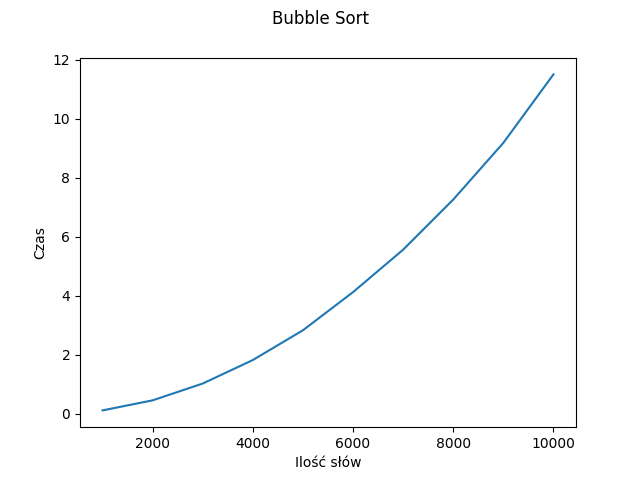
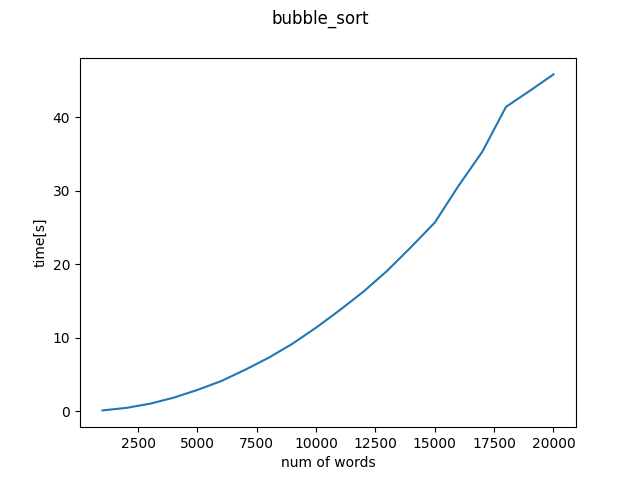
added more tests

diff --git a/main.py b/main.py
@@ -4,16 +4,15 @@ import time
 import gc
 
 text = []
-bubble_t = []
-merge_t = []
-quick_t = []
-selection_t = []
-NUM_OF_TESTS = 5
+# bubble_t = []
+# merge_t = []
+# quick_t = []
+# selection_t = []
+# NUM_OF_TESTS = 5
 
 with open('pan-tadeusz.txt', 'r', encoding='utf-8') as fp:
     for line in fp:
         text.extend(map(str.lower, line.split()))
-
 
 def measure_time(func, n, text):
     gc_old = gc.isenabled()
@@ -25,59 +24,56 @@ def measure_time(func, n, text):
         gc.enable()
     return stop-start
 
+def test_sorting(func, text, min, max, increments):
+    test_t = []
+    test_n = []
+    for i in range(min, max+1, increments):
+        test_t.append(measure_time(func, i, text))
+        test_n.append(i)
+    return test_n, test_t
+
 def main():
-    for i in range(1, NUM_OF_TESTS):
-        bubble_t.append(measure_time(sort.bubble_sort, i*2000, text))
-        merge_t.append(measure_time(sort.merge_sort, i*2000, text))
-        # quick_t.append(measure_time(sort.quick_sort, i*20000, text))
-        selection_t.append(measure_time(sort.selection_sort, i*2000, text))
-    xs = [n*2000 for n in range(1, NUM_OF_TESTS)]
-    plt.plot(xs, bubble_t, label='bubble sort')
-    plt.plot(xs, merge_t, label='merge sort')
-    plt.plot(xs, selection_t, label='selecion sort')
+    # for i in range(1, NUM_OF_TESTS):
+    #     bubble_t.append(measure_time(sort.bubble_sort, i*2000, text))
+    #     merge_t.append(measure_time(sort.merge_sort, i*2000, text))
+    #     quick_t.append(measure_time(sort.quick_sort, i*20000, text))
+    #     selection_t.append(measure_time(sort.selection_sort, i*2000, text))
+    # xs = [n*2000 for n in range(1, NUM_OF_TESTS)]
+    # plt.plot(xs, bubble_t, label='bubble sort')
+    # plt.plot(xs, merge_t, label='merge sort')
+    # plt.plot(xs, selection_t, label='selecion sort')
     # plt.plot(xs, quick_t, label='quick sort')
+    # plt.ylabel('time[s]')
+    # plt.xlabel('num of words')
+    # plt.legend()
+    # plt.savefig('sorting_stats1.png')
+
+    func_list = [sort.bubble_sort, sort.quick_sort, sort.merge_sort, sort.selection_sort]
+    func_out_list = []
+    for x in func_list:
+        func_out_list.append((x, test_sorting(x, text, 1000, 100000, 1000)))
+    
+    for i in range(len(func_out_list)):
+        fname = func_out_list[i][0].__name__
+        data = func_out_list[i][1]
+        plt.figure(10)
+        plt.plot(*data, label = fname)
+        plt.figure(i)
+        plt.ylabel('time[s]')
+        plt.xlabel('num of words')
+        plt.plot(*data)
+        plt.suptitle(fname)
+        plt.savefig(fname+'.png')
+        
+    plt.figure(10)
     plt.ylabel('time[s]')
     plt.xlabel('num of words')
+    plt.suptitle('Sorting Algorithms')
     plt.legend()
     plt.savefig('sorting_stats.png')
-
+    plt.show()
 
 
 if __name__ == '__main__':
     main()
 
-
-# def test_sorting(func, text, min, max, increments):
-#     test_t = []
-#     test_n = []
-#     for i in range(min, max+1, increments):
-#         test_t.append(measure_time(func, i, text))
-#         test_n.append(i)
-#     return test_n, test_t
-
-
-# plt.figure(1)
-# plt.plot(*test_sorting(sort.bubble_sort, text, 1000, 10000, 1000))
-# plt.xlabel('Ilość słów')
-# plt.ylabel('Czas')
-# plt.suptitle('Bubble Sort')
-# plt.savefig('bubble_sort.png')
-# plt.figure(2)
-# plt.plot(*test_sorting(sort.quick_sort, text, 1000, 10000, 1000))
-# plt.xlabel('Ilość słów')
-# plt.ylabel('Czas')
-# plt.suptitle('Quick Sort')
-# plt.savefig('quick_sort.png')
-# plt.figure(3)
-# plt.plot(*test_sorting(sort.merge_sort, text, 1000, 10000, 1000))
-# plt.xlabel('Ilość słów')
-# plt.ylabel('Czas')
-# plt.suptitle('Merge Sort')
-# plt.savefig('merge_sort.png')
-# plt.figure(4)
-# plt.plot(*test_sorting(sort.selection_sort, text, 1000, 10000, 1000))
-# plt.xlabel('Ilość słów')
-# plt.ylabel('Czas')
-# plt.suptitle('Selection Sort')
-# plt.savefig('selection_sort.png')
-# plt.show()

diff --git a/test_sort.py b/test_sort.py
@@ -1,26 +1,41 @@
 import sort
 
+text = []
+with open('pan-tadeusz.txt', 'r', encoding='utf-8') as fp:
+    for line in fp:
+        text.extend(map(str.lower, line.split()))
+        if len(text) >= 100:
+            break
+text_sorted = sorted(text)
+
+
 def test_bubble_sort():
+    text_sorted = sorted(text)
     assert sort.bubble_sort([1,2,3]) == [1,2,3]
     assert sort.bubble_sort([3,2,3]) == [2,3,3]
     assert sort.bubble_sort([3,2,1]) == [1,2,3]
     assert sort.bubble_sort([2,1,3]) == [1,2,3]
     assert sort.bubble_sort(list('bruh')) == ['b', 'h', 'r', 'u']
+    assert sort.bubble_sort(text) == text_sorted
 
 
 def test_merge_sort():
+    text_sorted = sorted(text)
     assert sort.merge_sort([1,2,3]) == [1,2,3]
     assert sort.merge_sort([3,2,3]) == [2,3,3]
     assert sort.merge_sort([3,2,1]) == [1,2,3]
     assert sort.merge_sort([2,1,3]) == [1,2,3]
     assert sort.merge_sort(list('bruh')) == ['b', 'h', 'r', 'u']
+    assert sort.merge_sort(text) == text_sorted
 
 def test_selection_sort():
+    text_sorted = sorted(text)
     assert sort.selection_sort([1,2,3]) == [1,2,3]
     assert sort.selection_sort([3,2,3]) == [2,3,3]
     assert sort.selection_sort([3,2,1]) == [1,2,3]
     assert sort.selection_sort([2,1,3]) == [1,2,3]
     assert sort.selection_sort(list('bruh')) == ['b', 'h', 'r', 'u']
+    assert sort.selection_sort(text) == text_sorted
 
 def test_quick_sort():
     a2 = [1, 7, 4, 1, 10, 9, -2]
@@ -31,4 +46,5 @@ def test_quick_sort():
     assert sort.quick_sort([2,1,3], 0, 2) == [1,2,3]
     assert sort.quick_sort(a3, 0, len(a3)-1) == ['b', 'h', 'r', 'u']
     assert sort.quick_sort(a2, 0, len(a2)-1) == [-2, 1, 1, 4, 7, 9, 10]
+    assert sort.quick_sort(text) == text_sorted
     
